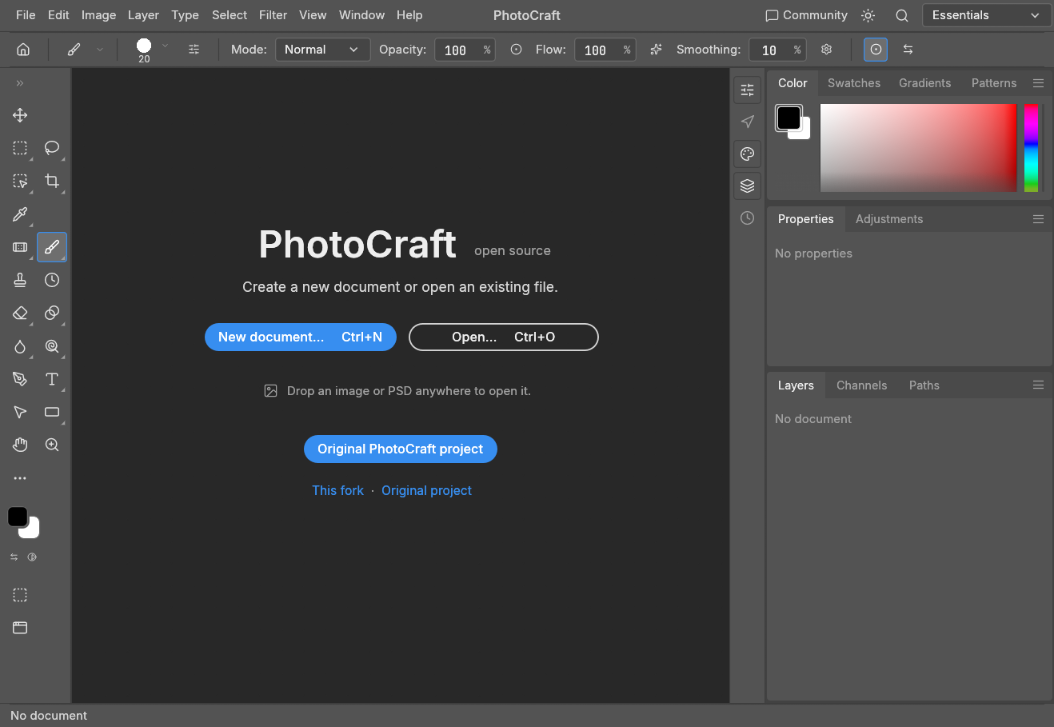
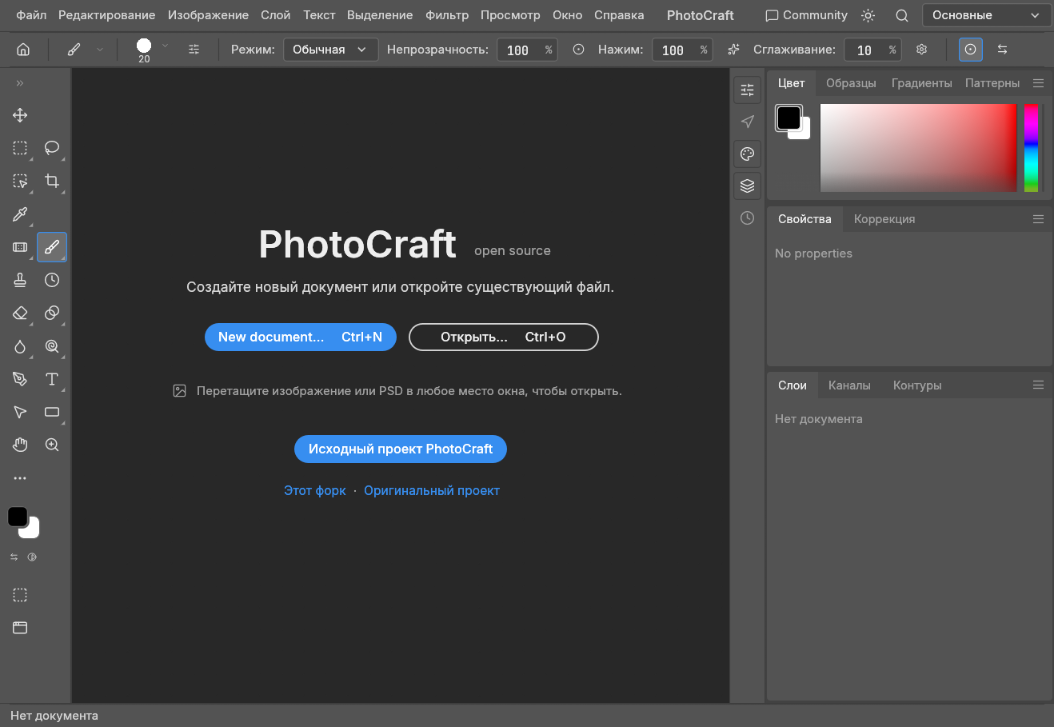
Sync document language with web editor

diff --git a/crates/ui-egui/src/i18n/mod.rs b/crates/ui-egui/src/i18n/mod.rs
@@ -258,10 +258,21 @@ pub fn sync_context(ctx: &egui::Context, language: &str) {
     let changed = ctx.data(|data| data.get_temp::<Lang>(id) != Some(lang));
     if changed {
         ctx.data_mut(|data| data.insert_temp(id, lang));
+        sync_document_language(lang);
         crate::theme::install_fonts(ctx);
         ctx.request_repaint();
     }
 }
+
+#[cfg(target_arch = "wasm32")]
+fn sync_document_language(lang: Lang) {
+    if let Some(root) = web_sys::window().and_then(|window| window.document()).and_then(|document| document.document_element()) {
+        let _ = root.set_attribute("lang", lang.code());
+    }
+}
+
+#[cfg(not(target_arch = "wasm32"))]
+fn sync_document_language(_: Lang) {}
 
 /// Does `lang` have a catalog entry for this plain string? (English never does: it is the source.)
 pub fn has(lang: Lang, s: &str) -> bool {
